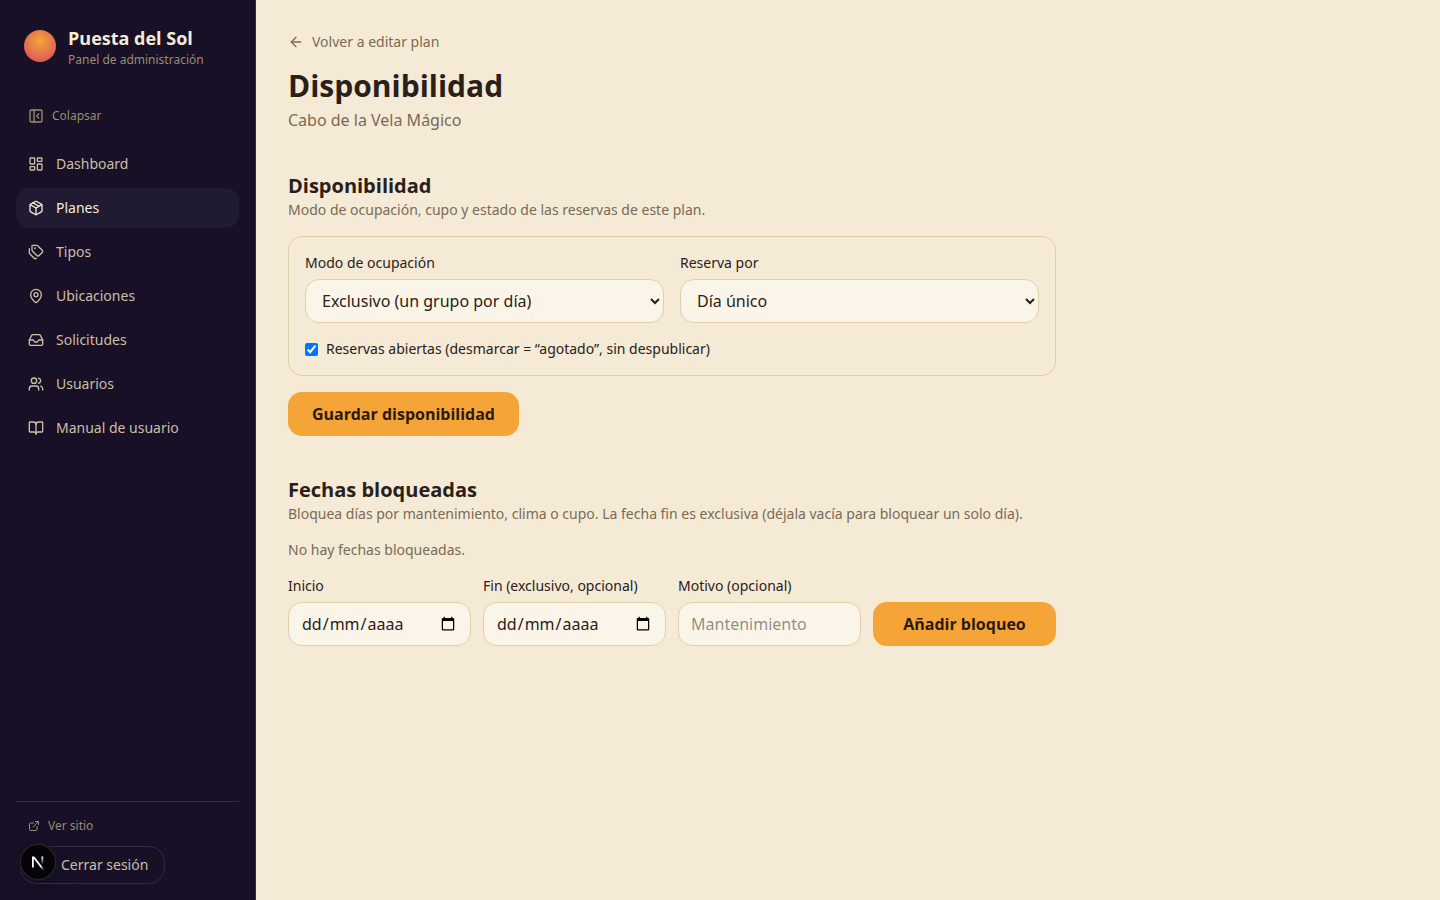
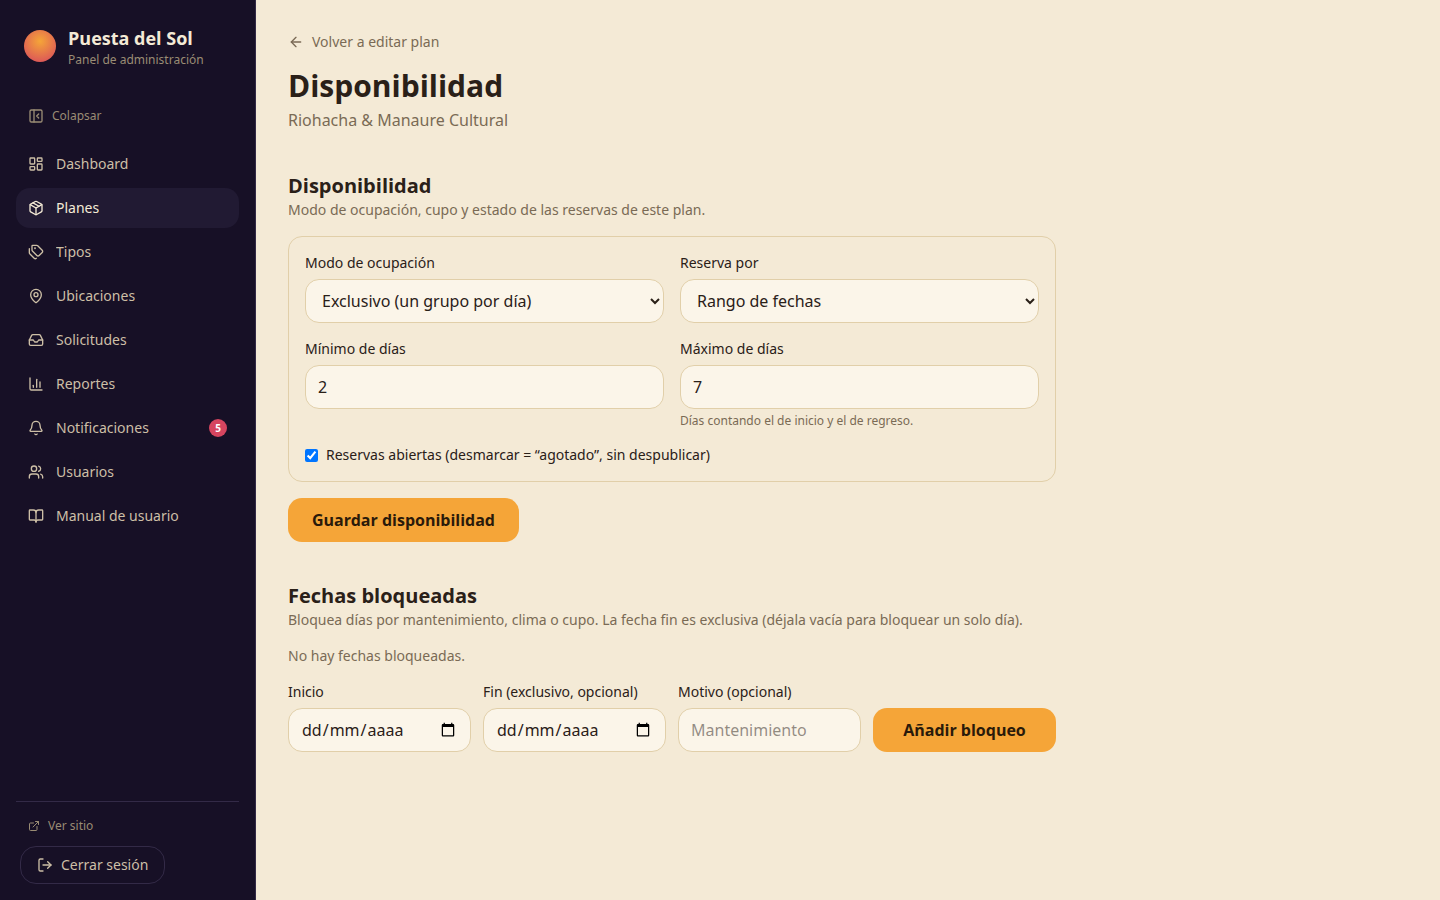
docs(manual): capturas nuevas y actualizadas (disponibilidad, cliente, solicitudes, reportes, notificaciones)

diff --git a/frontend/lib/manual-content.ts b/frontend/lib/manual-content.ts
@@ -103,6 +103,8 @@ quedan** (en rojo cuando son los últimos). Los días apartados por otra solicit
 aparecen marcados como "puede liberarse". En el listado de planes, cada tarjeta
 indica "Cupo N/día", "Salida privada" o "Reservas cerradas".
 
+![Ficha de un plan por rango: condiciones, próxima fecha y calendario](/manual/cliente-plan.png)
+
 ### Fechas bloqueadas
 
 Bloquea días concretos por mantenimiento, clima o cupo. Indica la fecha de
@@ -129,6 +131,8 @@ Haz clic en el número o en el nombre del cliente para abrir el **detalle**:
 datos de contacto (con acceso directo a correo, teléfono y WhatsApp), valor
 estimado, **disponibilidad de esas fechas** ("hay cupo para confirmarla" o el
 motivo por el que no) y el **historial** de cambios.
+
+![Detalle de una solicitud](/manual/solicitud-detalle.png)
 
 ### Estados
 
@@ -163,6 +167,8 @@ Al elegir una acción puedes escribir un **mensaje para el cliente**. Para
 revisar la disponibilidad: si ya no hay cupo, el cambio no se aplica y se
 muestra el motivo.
 
+![Diálogo para rechazar una solicitud con su motivo](/manual/solicitud-accion.png)
+
 ### Correos automáticos
 
 - Cuando llega una solicitud, el cliente recibe un acuse con el resumen y la
@@ -196,6 +202,8 @@ partir de los estados de las solicitudes.
   contactadas).
 - **Plan más vendido**: el plan con más solicitudes efectivas.
 
+![Métricas principales y pipeline en Reportes](/manual/reportes.png)
+
 ### Pipeline
 
 Debajo está el **pipeline**: una columna por etapa (**Sin contactar**,
@@ -209,6 +217,8 @@ rechazadas, canceladas y vencidas). Cada tarjeta es una solicitud.
   pide el motivo.
 - Haz clic en el nombre para abrir el detalle.
 - El tablero se actualiza solo cada pocos segundos.
+
+![Arrastrando una tarjeta: solo se resaltan las columnas permitidas](/manual/reportes-pipeline.png)
 
 ### Detalle
 
@@ -224,6 +234,8 @@ rechazadas, canceladas y vencidas). Cada tarjeta es una solicitud.
 El botón **Exportar** abre un menú para elegir qué reporte descargar en CSV
 (se abre directamente en Excel). Todos usan los filtros actuales (periodo, base
 de fecha y plan):
+
+![Menú de exportación de reportes](/manual/reportes-exportar.png)
 
 - **Solicitudes (detalle)**: una fila por solicitud.
 - **Resumen de métricas**: solicitudes, clientes contactados, efectivas,
@@ -249,8 +261,12 @@ Cada aviso aparece como una **notificación emergente** en la pantalla (también
 mientras navegas el sitio con tu cuenta de administrador). Haz clic en ella para
 abrir la solicitud; queda marcada como leída.
 
+![Notificación emergente de una nueva solicitud](/manual/notificacion-toast.png)
+
 En **Notificaciones** (menú lateral, con el número de no leídas) ves el
 historial completo:
+
+![Apartado de notificaciones](/manual/notificaciones.png)
 
 - Filtra entre **Todas** y **No leídas**.
 - Haz clic en una notificación para abrir su solicitud.
